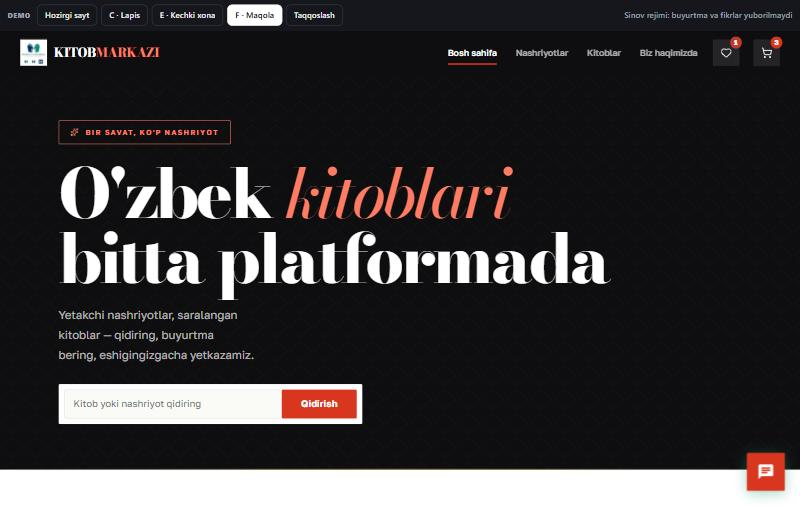
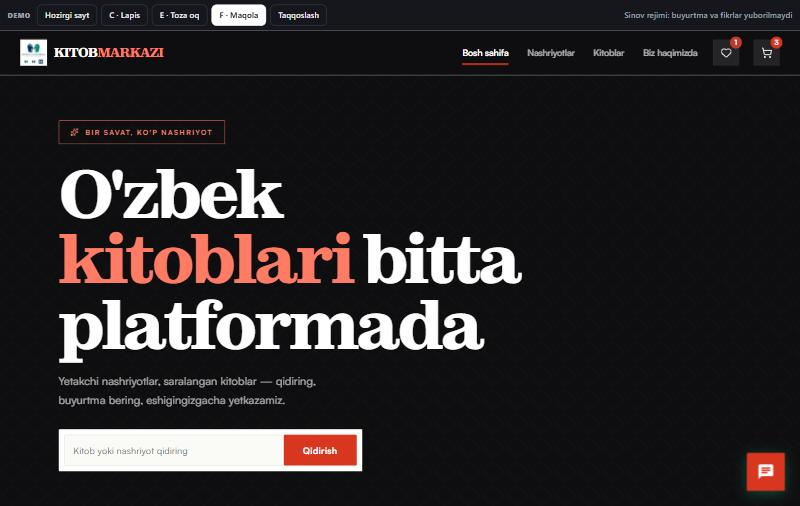
feat(demo): replace dark option with light minimal E; free premium Fontshare fonts
- E "Toza oq": white minimalism (General Sans + Satoshi), one muted plum accent,
  hairlines, light hero and bands (built with the clean/modern design skills)
- C now uses Clash Display + Satoshi, F uses Zodiak + Satoshi (Fontshare)
- contrast fixes for badges on C and E; chooser text updated

diff --git a/themes/e.css b/themes/e.css
@@ -1,67 +1,70 @@
-/* Theme E — Kechki xona: ink-dark reading room, warm amber, classic serif */
+/* Theme E — Toza oq: calm white minimalism. 8pt rhythm, hairlines, one muted plum accent.
+   Built from the "clean" and "modern" design-system skills: ample whitespace, limited palette, 44px targets, AA contrast. */
 html[data-km-theme="e"]{
-  color-scheme:dark;
-  --navy:#0F0C0A;--navy2:#1B1612;--navy3:#0B0907;
-  --teal:#F2B552;--teal-d:#F2B552;--teal-l:#FFD58A;
-  --gold:#F2B552;--gold-l:#FFD58A;--gold-d:#C98A1B;
-  --cream:#14110F;--cream2:#241E1A;--white:#1D1814;--surface:#1D1814;--surface-tinted:#241E1A;--surface-cool:#241E1A;
-  --ink:#EDE6DA;--mid:#C2B8A9;--light:#9E9384;--border:#322A24;
-  --serif:'Source Serif 4',Georgia,serif;--sans:'Golos Text',system-ui,sans-serif;
-  --grad-navy:linear-gradient(180deg,#1B1612,#14110F);--grad-gold:#F2B552;--grad-teal:#F2B552;
-  --sh-sm:none;--sh-md:0 6px 16px -8px rgba(0,0,0,.6);--sh-lg:0 14px 26px -14px rgba(0,0,0,.7);--sh-xl:0 20px 34px -16px rgba(0,0,0,.75);
-  --sh-teal:none;--sh-gold:none;--glow-teal:0 0 0 3px rgba(242,181,82,.35);--glow-gold:0 0 0 3px rgba(242,181,82,.35);
-  --t-radius:14px;--t-radius-sm:10px;--t-pill:999px;--t-border:#322A24;--t-hover-border:#F2B552;--t-orb:none;
-  --t-shadow:none;--t-shadow-hover:0 16px 28px -16px rgba(0,0,0,.8);
-  --t-head-w:700;--t-head-ls:-.02em;--t-step:#F2B552;--t-step-ink:#14110F;--t-sel:#F2B552;--t-sel-ink:#14110F;--t-focus:#F2B552;
+  --navy:#111111;--navy2:#1E1E1E;--navy3:#0B0B0B;
+  --teal:#5A3E8F;--teal-d:#432E6E;--teal-l:#CDBDF2;
+  --gold:#111111;--gold-l:#CDBDF2;--gold-d:#000000;
+  --cream:#FFFFFF;--cream2:#F3F3F1;--white:#FFFFFF;--surface:#FFFFFF;--surface-tinted:#F7F7F5;--surface-cool:#F3F3F1;
+  --ink:#111111;--mid:#444444;--light:#666666;--border:#E6E6E3;
+  --serif:'General Sans','Satoshi',system-ui,sans-serif;--sans:'Satoshi',system-ui,sans-serif;
+  --grad-navy:#111111;--grad-gold:#111111;--grad-teal:#5A3E8F;
+  --sh-sm:none;--sh-md:none;--sh-lg:0 12px 24px -16px rgba(17,17,17,.25);--sh-xl:0 16px 32px -20px rgba(17,17,17,.3);--sh-teal:none;--sh-gold:none;
+  --glow-teal:0 0 0 3px rgba(90,62,143,.28);--glow-gold:0 0 0 3px rgba(90,62,143,.28);
+  --t-radius:12px;--t-radius-sm:10px;--t-pill:999px;--t-border:#E6E6E3;--t-hover-border:#111111;--t-orb:none;
+  --t-shadow:none;--t-shadow-hover:0 14px 26px -18px rgba(17,17,17,.35);
+  --t-head-w:600;--t-head-ls:-.025em;--t-step:#5A3E8F;--t-step-ink:#fff;--t-sel:#5A3E8F;--t-sel-ink:#fff;--t-focus:#5A3E8F;
 
-  & body{background:#14110F;color:var(--ink)}
-  & :is(h1,h2,h3){font-family:var(--serif)}
-  /* header */
-  & .nav{background:#0F0C0A;border-bottom:1px solid var(--border);box-shadow:none}
-  & .bname span{color:#F2B552}
-  & .nav-link::after,& .nav-link.on::after{background:#F2B552}
-  & .cart-count{background:#F2B552;color:#14110F}
-  & .cart-link,& .wish-link,& .nav-burger{background:#1D1814;border-color:var(--border)}
-  /* amber actions with dark text */
-  & :is(.btn-teal,.nav-cta,.sbtn,.book-cta-btn,.book-cart-btn,.bs-cart,.bk-addcart,.submit,.checkout,.ai-start,.btn-track,.ab-cta,.undo-btn,.kmm-go,#mBar button){background:#F2B552;color:#14110F;box-shadow:none;background-image:none}
-  & :is(.btn-teal,.nav-cta,.sbtn,.book-cta-btn,.book-cart-btn,.bs-cart,.bk-addcart,.submit,.checkout,.ai-start,.btn-track,.ab-cta):hover{background:#FFC96B;color:#14110F}
-  & :is(.book-cart-btn,.bs-cart,.book-cta-btn) .cart-ic{stroke:#14110F}
-  & .btn-ghost{background:transparent;color:var(--ink);border-color:#4A3F37}
-  & .btn-ghost:hover{border-color:#F2B552;color:#F2B552}
-  /* surfaces that hardcode white */
-  & :is(.search,.sinput,.ac-list,.modal,.pay,.cour,.paytime,.qty,.cqty,.qbtn,.cqbtn,.nav-mobile,#mBar,.m-sum,.kmm-sheet,.live-activity,.book-detail-btn,.wish-btn-inline,.wish-btn){background:#1D1814;color:var(--ink);border-color:var(--border)}
-  & :is(input,textarea,select){background:#1D1814 !important;color:var(--ink) !important;border-color:#3A322C}
-  & input::placeholder,& textarea::placeholder{color:#9E9384}
-  & .search .s-ic,& .s-ic{color:#9E9384}
-  & :is(.ac-item:hover,.qbtn:hover,.cqbtn:hover){background:#2A231E}
-  & .ac-item{border-bottom-color:var(--border)}
-  & .pay.on,& .paytime.on,& .cour.on{background:#2A231E;border-color:#F2B552}
-  & .pay img{background:#fff;border-radius:6px;padding:4px 8px}
-  /* selected pills / steps */
-  & :is(.genre-pill.on,.sortpill.on,.gfilter.on,.alpha-btn.on,.page-btn.on,.pg-btn.on,.pb-filter.on,.fpill.on){background:#F2B552;color:#14110F;border-color:#F2B552}
-  & :is(.genre-pill,.sortpill,.gfilter,.alpha-btn,.page-btn,.pg-btn,.pb-filter,.fpill){background:#1D1814;color:var(--ink);border-color:var(--border)}
-  & :is(.fcard-n,.os-ic,.sb-done){background:#F2B552;color:#14110F}
-  & .os.active .os-ic{background:#F2B552;color:#14110F}
-  /* badges */
-  & :is(.first-badge,.bc-badge,.soon,.how-badge){background:#F2B552;color:#14110F}
-  /* sections that used light tints */
-  & :is(.sec-alt,.interest-strip){background:transparent}
-  & .site-foot{background:#0F0C0A}
-  & .site-foot::before,& .sf-pat{opacity:.5}
-  & .site-foot::before{background:linear-gradient(90deg,#F2B552,#C98A1B)}
-  & .reveal{color:inherit}
-  /* covers: keep real artwork bright */
-  & .cov img,& .physical-book-front{filter:none}
-  & .st::before{background:#F2B552}
-  & .rate,& .bk-stars{color:#F2B552}
-  & :is(.book-price,.bs-price,.bk-price){color:#F2B552}
-  & .kmm-sheet li,& .kmm-sheet ul,& .kmm-t{border-color:var(--border)}
-  & .kmm-t b{color:var(--ink)}
-  & .kmm-ghost{background:transparent;color:var(--ink);border-color:#4A3F37}
-  & .km-chat-btn{background:#F2B552 !important;color:#14110F !important}
-  & .sticky-addcart{background:rgba(29,24,20,.97);border-top-color:var(--border)}
-  & .cour-hint{background:#1D1814;color:var(--mid)}
-  & .summary button[onclick*="applyPromo"]{background:#2A231E !important;color:#EDE6DA !important}
-  & :is(.search,.s-search,.sbar) button{background:#F2B552;color:#14110F}
+  & body{background:#fff;color:var(--ink)}
+  & :is(h1,h2,h3,.st,.bname){font-family:var(--serif);font-weight:600;letter-spacing:-.025em}
+  /* white header, hairline */
+  & .nav{background:#fff;border-bottom:1px solid var(--border);box-shadow:none}
+  & .bname{color:var(--ink)}& .bname span{color:#5A3E8F}
+  & .nav-link{color:var(--mid)}& :is(.nav-link:hover,.nav-link.on){color:var(--ink)}
+  & :is(.nav-link::after,.nav-link.on::after){background:#5A3E8F}
+  & :is(.cart-link,.wish-link,.nav-burger){background:#F3F3F1;border-color:transparent;color:var(--ink)}
+  & .nav-burger span{background:var(--ink)}
+  & .nav-back{color:var(--mid)}& .nav-back:hover{color:var(--ink)}
+  & .cart-count{background:#5A3E8F;color:#fff}
+  /* plum actions */
+  & :is(.btn-teal,.nav-cta,.sbtn,.book-cta-btn,.book-cart-btn,.bs-cart,.bk-addcart,.submit,.checkout,.ai-start,.btn-track,.ab-cta,.undo-btn,.kmm-go,#mBar button){background:#5A3E8F;color:#fff;box-shadow:none;background-image:none;border-radius:10px}
+  & :is(.btn-teal,.nav-cta,.sbtn,.book-cta-btn,.book-cart-btn,.bs-cart,.bk-addcart,.submit,.checkout,.ai-start,.btn-track,.ab-cta):hover{background:#432E6E;color:#fff}
+  & :is(.book-cart-btn,.bs-cart,.book-cta-btn) .cart-ic{stroke:#fff}
+  & .btn-ghost{background:#fff;color:var(--ink);border:1.5px solid var(--border)}
+  & .btn-ghost:hover{border-color:var(--ink);background:#F7F7F5;color:var(--ink)}
+  /* light hero and inner-page bands: no dark slab, hairline underneath */
+  & :is(.hero,.s-hero,.c-hero,.o-hero,.ab-hero,.info-hero,.ph,.pub-header){background:#fff !important;border-bottom:1px solid var(--border);color:var(--ink)}
+  & :is(.hero,.s-hero,.c-hero,.o-hero,.ab-hero,.info-hero,.ph,.pub-header) :is(h1,h2,h3,p,span,div,li,a,label,small):not(.btn):not(button):not(.tag):not(.sbtn):not(.first-badge):not(.os-ic):not(.cnt):not([class*="badge"]){color:var(--ink) !important}
+  & :is(.hsub,.slbl,.s-subtitle,.c-hsub,.os-t,.ph-sub){color:var(--mid) !important}
+  & .hero h1{font-family:var(--serif);font-weight:600;font-size:clamp(40px,6vw,84px);line-height:1;letter-spacing:-.04em;max-width:13ch}
+  & .hero h1 em{font-style:normal;color:#5A3E8F !important;-webkit-text-fill-color:#5A3E8F}
+  & .hero .tag{background:#F3F3F1;border:1px solid var(--border);color:var(--mid);border-radius:999px}
+  & .hero .search{border:1.5px solid var(--ink);box-shadow:none;border-radius:12px;background:#fff}
+  & .hero-bg{display:none}
+  & .hero .stats .snum span{color:#5A3E8F !important}
+  & .hero-book-link::before{content:'';position:absolute;inset:-28px -34px -34px;border-radius:20px;background:#F3F3F1;z-index:-1;box-shadow:none}
+  & .os-ic{background:#F3F3F1;color:var(--mid)}
+  & .os.done .os-ic{background:#5A3E8F;color:#fff}
+  & .os.active .os-ic{background:#111;color:#fff;box-shadow:none}
+  & .os-conn{background:var(--border)}& .os-conn.done{background:#5A3E8F}
+  /* whitespace: 8pt rhythm, calmer sections */
+  & .sec{padding-top:96px}
+  & .sh{margin-bottom:40px}
+  & .st::before{background:#5A3E8F;height:3px;width:32px}
+  /* flat cards: hairline, no shadow */
+  & :is(.book,.bs-card,.pcard,.card,.summary,.fcard,.cgroup){box-shadow:none;border:1px solid var(--border)}
+  & :is(.book,.bs-card,.pcard):hover{border-color:var(--ink);box-shadow:none}
+  & :is(.book-price,.bs-price,.bk-price){color:var(--ink);font-weight:700}
+  & :is(.first-badge,.bc-badge,.soon,.how-badge){background:#111;color:#fff}
+  & .rate,& .bk-stars{color:#5A3E8F}
+  & :is(.genre-pill.on,.sortpill.on,.gfilter.on,.alpha-btn.on,.page-btn.on,.pg-btn.on,.pb-filter.on,.fpill.on){background:#111;color:#fff;border-color:#111}
+  & :is(.fcard-n,.sb-done){background:#5A3E8F;color:#fff}
+  & .site-foot{background:#111}
+  & .site-foot::before{background:#5A3E8F}
+  & .km-chat-btn{background:#5A3E8F !important;color:#fff !important}
+  & #km-back-to-top{background:#111 !important;color:#fff !important}
+  & :is(.bs-rank,.bk-cov-badge,.bc-badge,.first-badge){background:#111;color:#fff}
+  & .pbadge{background:#F3F3F1;color:var(--mid) !important;border:1px solid var(--border)}
+  & .pbadge.gold{background:#5A3E8F;color:#fff !important}
+  & .pub-header :is(.ph-stat,.ps-val,.ps-lbl,.ph-info,.ph-info *){color:var(--ink) !important}
+  & .pub-header .pbadge.gold{color:#fff !important}
 }
-html[data-km-theme="e"] #km-back-to-top{background:#F2B552!important;color:#14110F!important}

diff --git a/ui-options/index.html b/ui-options/index.html
@@ -33,13 +33,13 @@ h1{font-size:26px;letter-spacing:-.01em}
 @media (max-width:980px){.tabs,.notes{grid-template-columns:repeat(2,1fr)}}@media (max-width:560px){.tabs,.notes{grid-template-columns:1fr}}
 </style></head><body><div class="wrap">
 <h1>Kitobmarkazi — design demo</h1>
-<p class="sub">This is the real site in four looks: the original, and three clearly different directions (C bold blue, E dark reading room, F black-white-red editorial). Pick an option, a page and a device, or open the live demo to use everything: search, cart, checkout, wishlist and order tracking. Orders placed in the demo are simulated and never sent.</p>
+<p class="sub">This is the real site in four looks: the original, and three clearly different directions (C bold blue, E calm white minimal, F black-white-red editorial). Pick an option, a page and a device, or open the live demo to use everything: search, cart, checkout, wishlist and order tracking. Orders placed in the demo are simulated and never sent.</p>
 
 <div class="tabs" role="tablist" aria-label="Options">
   <button class="tab" role="tab" data-k="current" aria-selected="true"><b>Original</b><span>Today's site, unchanged. The reference to compare against.</span></button>
-  <button class="tab" role="tab" data-k="c" aria-selected="false"><b>C — Lapis</b><span>Bold: deep blue, coral, a wall of real covers in the hero, turquoise zigzag.</span></button>
-  <button class="tab" role="tab" data-k="e" aria-selected="false"><b>E — Kechki xona</b><span>Dark reading room: ink-black, warm amber, classic serif. Calm, evening feel.</span></button>
-  <button class="tab" role="tab" data-k="f" aria-selected="false"><b>F — Maqola</b><span>Editorial: black, white and one red; huge serif headline, flat ruled catalogue.</span></button>
+  <button class="tab" role="tab" data-k="c" aria-selected="false"><b>C — Lapis</b><span>Bold: deep blue, coral, Clash Display headings, a wall of real covers in the hero.</span></button>
+  <button class="tab" role="tab" data-k="e" aria-selected="false"><b>E — Toza oq</b><span>Calm white minimalism: General Sans + Satoshi, one muted plum accent, hairlines, lots of space.</span></button>
+  <button class="tab" role="tab" data-k="f" aria-selected="false"><b>F — Maqola</b><span>Editorial: black, white and one red; Zodiak serif headline, flat ruled catalogue.</span></button>
 </div>
 
 <div class="bar">
@@ -58,8 +58,8 @@ h1{font-size:26px;letter-spacing:-.01em}
 <div class="notes">
   <div class="note"><h2>Original</h2><ul><li>Cream, navy, teal and gold as today</li><li>Keeps everything your client already knows</li></ul></div>
   <div class="note"><h2>C — Lapis</h2><ul><li>Bricolage Grotesque, drenched blue, coral buttons</li><li>Hero shows real covers drifting</li><li>Phone cart opens as a bottom sheet</li></ul></div>
-  <div class="note"><h2>E — Kechki xona</h2><ul><li>Source Serif on ink-black, amber actions</li><li>Easy on the eyes at night</li><li>Same bottom-sheet cart and cover glide</li></ul></div>
-  <div class="note"><h2>F — Maqola</h2><ul><li>Bodoni headline, black/white/red only</li><li>Square buttons, ruled catalogue, no decoration</li><li>Most minimal of the four</li></ul></div>
+  <div class="note"><h2>E — Toza oq</h2><ul><li>White page, plum buttons, thin lines</li><li>Cleanest and calmest of the four</li><li>Same bottom-sheet cart and cover glide</li></ul></div>
+  <div class="note"><h2>F — Maqola</h2><ul><li>Zodiak headline, black/white/red only</li><li>Square buttons, ruled catalogue, no decoration</li><li>Most minimal of the four</li></ul></div>
 </div>
 </div>
 <script>

diff --git a/demo-theme.js b/demo-theme.js
@@ -10,10 +10,10 @@
   var THEMES = {
     a: { name: 'A · Toza', fonts: 'family=Manrope:wght@400;500;600;700;800&family=Playfair+Display:wght@700;800;900', css: ['motion'], scripts: ['motion'], hide: true },
     b: { name: 'B · Imprint', fonts: 'family=Source+Serif+4:opsz,wght@8..60,600;8..60,700;8..60,800&family=Golos+Text:wght@400;500;600;700;800', hide: true },
-    c: { name: 'C · Lapis', fonts: 'family=Bricolage+Grotesque:opsz,wght@12..96,700;12..96,800&family=Golos+Text:wght@400;500;600;700;800', css: ['motion'], scripts: ['c', 'motion'] },
+    c: { name: 'C · Lapis', fonts: '', fontUrl: ['https://api.fontshare.com/v2/css?f[]=clash-display@500,600,700&display=swap', 'https://api.fontshare.com/v2/css?f[]=satoshi@400,500,700&display=swap'], css: ['motion'], scripts: ['c', 'motion'] },
     d: { name: 'D · Silliq', fonts: '', css: ['motion'], scripts: ['d', 'motion'], hide: true },
-    e: { name: 'E · Kechki xona', fonts: 'family=Source+Serif+4:opsz,wght@8..60,600;8..60,700&family=Golos+Text:wght@400;500;600;700;800', css: ['motion'], scripts: ['motion'] },
-    f: { name: 'F · Maqola', fonts: 'family=Bodoni+Moda:ital,opsz,wght@0,6..96,500;0,6..96,800;1,6..96,500&family=Golos+Text:wght@400;500;600;700;800', css: ['motion'], scripts: ['motion'] }
+    e: { name: 'E · Toza oq', fonts: '', fontUrl: ['https://api.fontshare.com/v2/css?f[]=general-sans@500,600,700&display=swap', 'https://api.fontshare.com/v2/css?f[]=satoshi@400,500,700&display=swap'], css: ['motion'], scripts: ['motion'] },
+    f: { name: 'F · Maqola', fonts: '', fontUrl: ['https://api.fontshare.com/v2/css?f[]=zodiak@700,800,900&display=swap', 'https://api.fontshare.com/v2/css?f[]=satoshi@400,500,700&display=swap'], css: ['motion'], scripts: ['motion'] }
   };
 
   function store(get, k, v) {
@@ -35,6 +35,7 @@
   /* ---------- theme stylesheet + fonts ---------- */
   function addLink(href, rel) { var l = document.createElement('link'); l.rel = rel || 'stylesheet'; l.href = href; document.head.appendChild(l); return l; }
   if (THEMES[theme]) {
+    [].concat(THEMES[theme].fontUrl || []).forEach(function (u) { addLink(u); });
     if (THEMES[theme].fonts) addLink('https://fonts.googleapis.com/css2?' + THEMES[theme].fonts + '&display=swap');
     addLink('/themes/pages.css');
     addLink('/themes/' + theme + '.css');

diff --git a/themes/f.css b/themes/f.css
@@ -5,7 +5,7 @@ html[data-km-theme="f"]{
   --gold:#D9361F;--gold-l:#FF7B63;--gold-d:#A8260F;
   --cream:#FFFFFF;--cream2:#F2F1EE;--white:#FFFFFF;--surface:#FFFFFF;--surface-tinted:#F7F6F3;--surface-cool:#F2F1EE;
   --ink:#0E0E10;--mid:#43434A;--light:#62626A;--border:#E3E1DC;
-  --serif:'Bodoni Moda',Georgia,serif;--sans:'Golos Text',system-ui,sans-serif;
+  --serif:'Zodiak','Bodoni Moda',Georgia,serif;--sans:'Satoshi','Golos Text',system-ui,sans-serif;
   --grad-navy:#0E0E10;--grad-gold:#D9361F;--grad-teal:#0E0E10;
   --sh-sm:none;--sh-md:none;--sh-lg:none;--sh-xl:none;--sh-teal:none;--sh-gold:none;
   --glow-teal:0 0 0 3px rgba(14,14,16,.22);--glow-gold:0 0 0 3px rgba(217,54,31,.3);
@@ -53,7 +53,7 @@ html[data-km-theme="f"]{
   & .hero{background:#0E0E10;padding-top:72px;padding-bottom:72px}
   & .hero .hgrid{grid-template-columns:1fr}
   & .hero h1{font-family:var(--serif);font-weight:800;font-size:clamp(44px,8.4vw,116px);line-height:.96;letter-spacing:-.045em;max-width:12ch}
-  & .hero h1 em{font-style:italic;font-weight:500;color:#FF7B63}
+  & .hero h1 em{font-style:normal;font-weight:800;color:#FF7B63}
   & .hero .showcase,& .hero .stats{display:none}
   & .hero .tag{border-radius:2px;background:transparent;border:1px solid #FF7B63;color:#FF7B63}
   & .hero .search{border-radius:2px;max-width:560px}

diff --git a/themes/c.css b/themes/c.css
@@ -5,7 +5,7 @@ html[data-km-theme="c"]{
   --gold:#FF5A36;--gold-l:#FF8A6E;--gold-d:#C23A1A;
   --cream:#F2F5FF;--cream2:#E7ECFF;--white:#FFFFFF;--surface:#FFFFFF;--surface-tinted:#EEF2FF;--surface-cool:#E7ECFF;
   --ink:#0C1230;--mid:#454E73;--light:#5A6385;--border:#D5DBF3;
-  --serif:'Bricolage Grotesque',system-ui,sans-serif;--sans:'Golos Text',system-ui,sans-serif;
+  --serif:'Clash Display','Bricolage Grotesque',system-ui,sans-serif;--sans:'Satoshi','Golos Text',system-ui,sans-serif;
   --grad-navy:#1632A8;--grad-gold:#FF5A36;--grad-teal:#1632A8;
   --sh-teal:0 10px 20px -8px rgba(22,50,168,.45);--sh-gold:0 10px 20px -8px rgba(255,90,54,.5);
   --glow-teal:0 0 0 3px rgba(22,50,168,.28);--glow-gold:0 0 0 3px rgba(255,90,54,.3);
@@ -55,3 +55,5 @@ html[data-km-theme="c"] .cw-col img{width:150px;aspect-ratio:2/3;object-fit:cove
 @media (prefers-reduced-motion:reduce){html[data-km-theme="c"] .cw-col{animation:none}}
 @media (max-width:900px){html[data-km-theme="c"] .showcase.has-wall{display:none}}
 html[data-km-theme="c"] #km-back-to-top{background:#FF5A36!important;color:#0C1230!important}
+html[data-km-theme="c"] .hero .tag{color:#FFC4B3}
+html[data-km-theme="c"] .pbadge{color:#FFD2C5}
